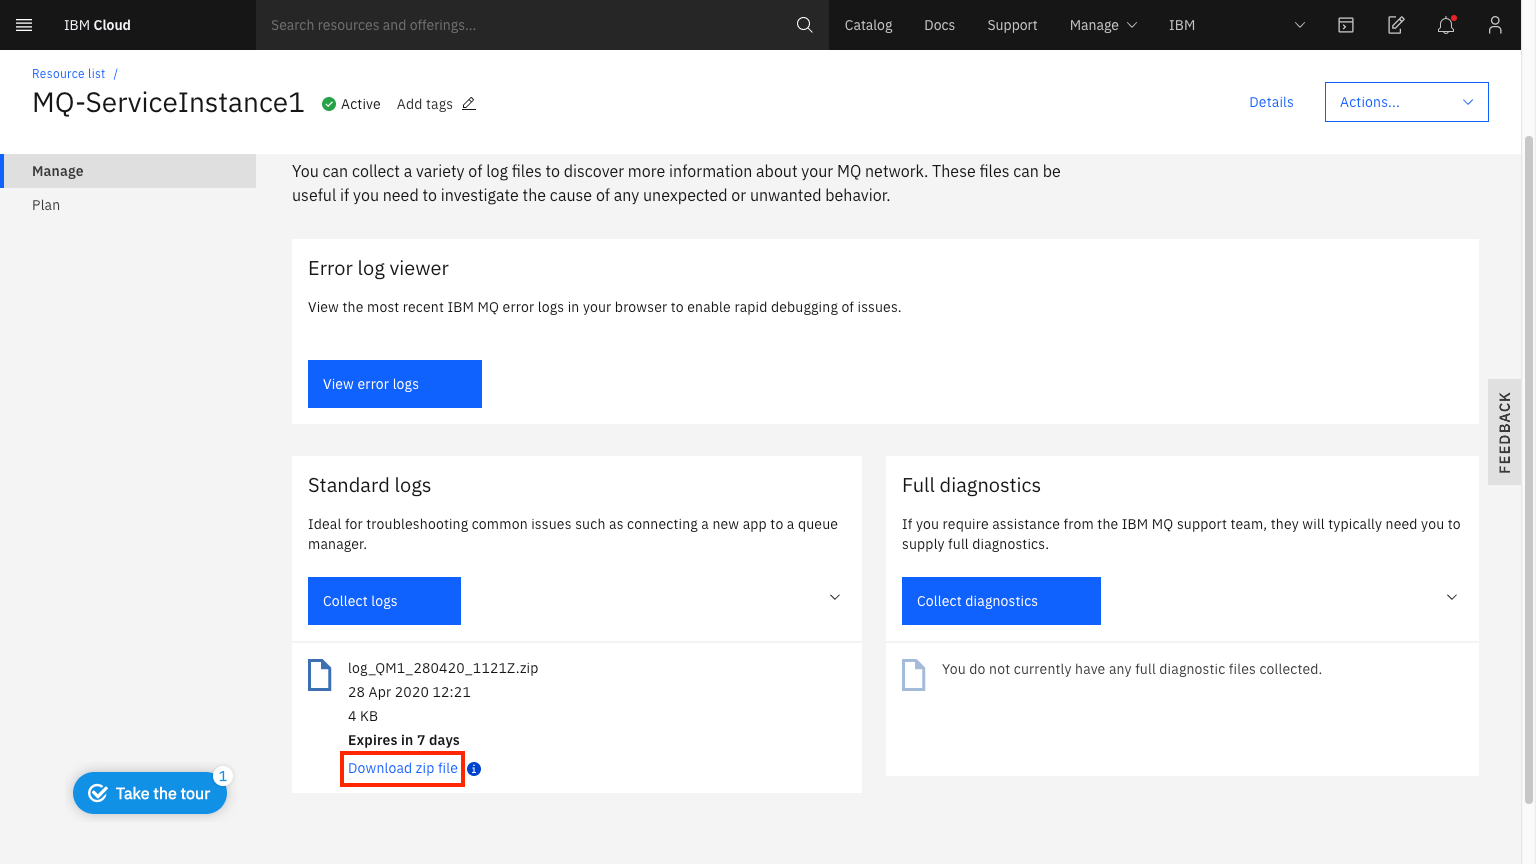
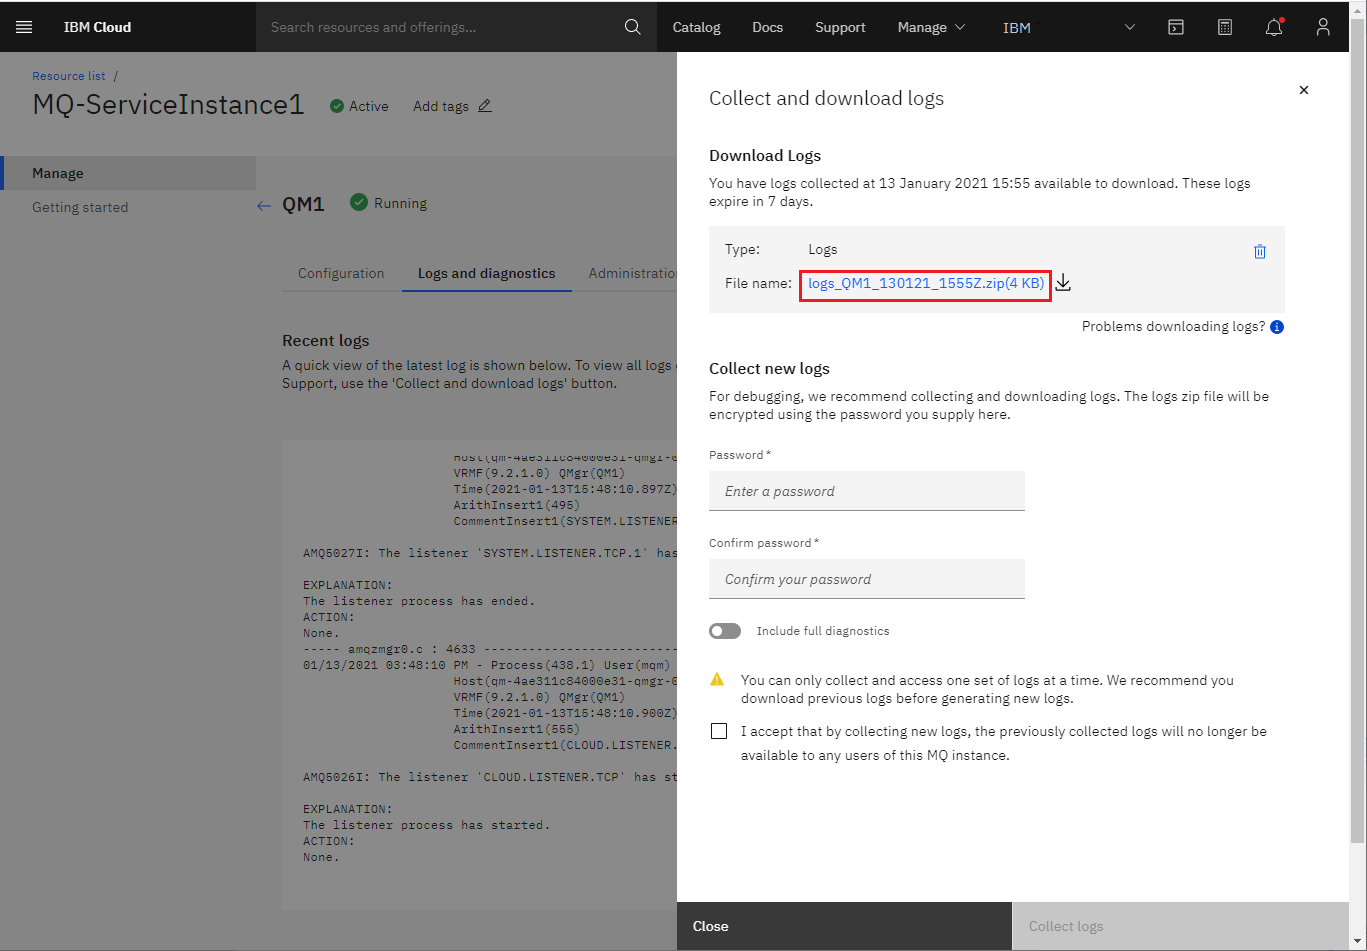
production updates

diff --git a/mqoc_download_logs.md b/mqoc_download_logs.md
@@ -38,17 +38,17 @@ The queue manager logs and diagnostics are available in a downloadable zip file.
 
 ## Collect logs and diagnostics
 
-1. Click the **Logs and diagnostics** tab in your queue manager view. This tab is only enabled once the queue manager status has been confirmed as Running.
+1. Click the **Logs and diagnostics** tab in your queue manager view. This tab is only enabled once the queue manager status has been confirmed as Running. The initial view on the Logs and diagnostics tab shows the most recent logs for the queue manager.
 
  ![Image showing the location of the Logs and diagnostics tab](./images/mqoc_logs_and_diagnostics_tab.png)
 
-2.  Click the **Collect logs** or **Collect diagnostics** button depending on which you want to download (Queue manager logs or Full Diagnostics).
+2. Click the **Collect and download logs** button to reveal the side panel.
 
 3. Enter a password for the zip file and click **Collect logs**.
 
-4. Wait for the logs to finish collecting.
+4. Wait for the logs to finish collecting. Any available log downloads will show in the **Download logs** section at the top of the panel. The side panel can be closed while you are waiting for the logs to finish processing.
 
-5. Click **Download zip file**.
+5. From the logs side panel, click on the log filename to download the logs.
 
  ![Image showing the location of the Download zip button](./images/mqoc_logs_and_diagnostics_download.png)
 
